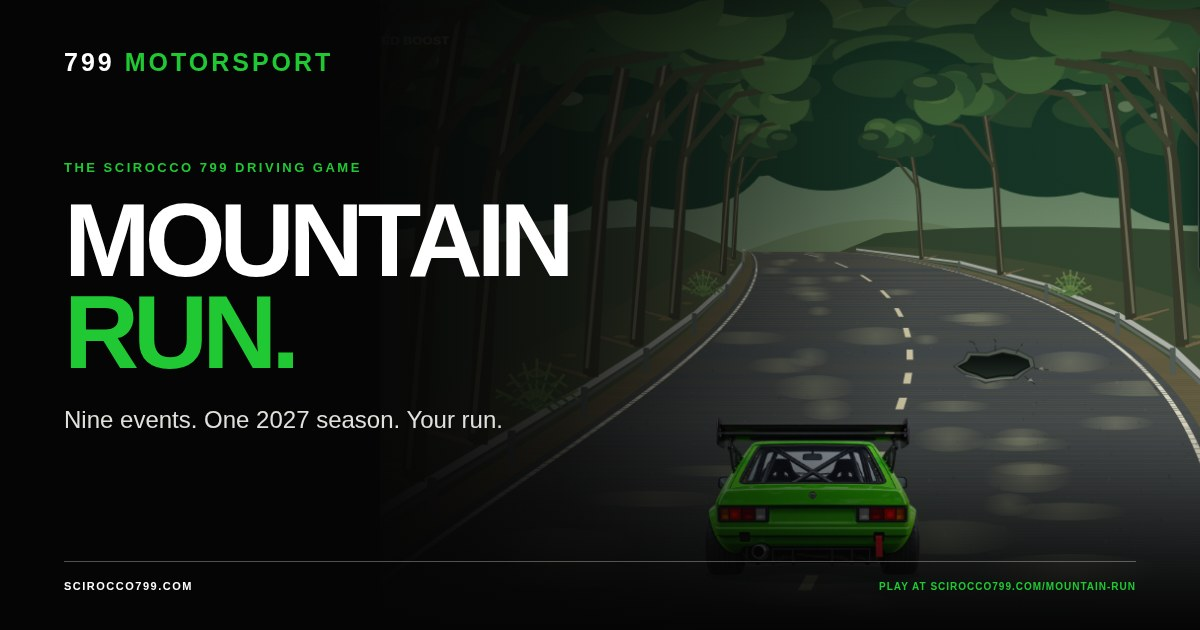
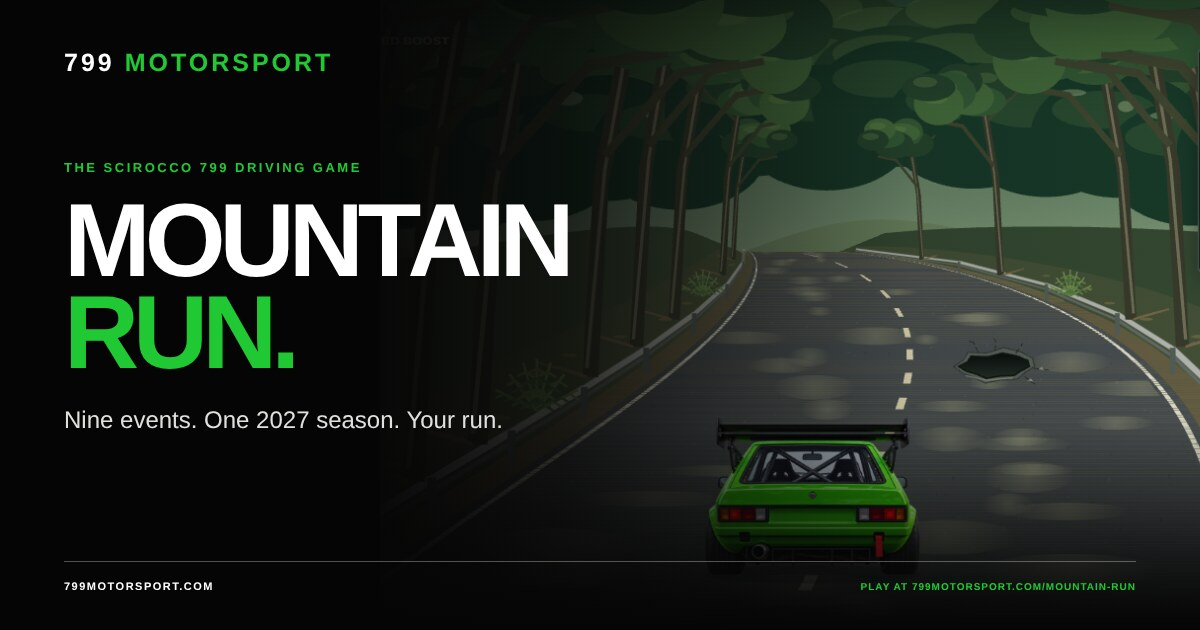
Share cards and QR code show 799motorsport.com
Link-preview cards: footer domain (and Mountain Run tag) now read
799MOTORSPORT.COM; nothing else on the cards changed. Table QR code now
encodes https://799motorsport.com/paddock?at=track#store (same size).
CLAUDE.md: hosting is Cloudflare Pages.

diff --git a/CLAUDE.md b/CLAUDE.md
@@ -1,6 +1,6 @@
 # 799motorsport.com
 
-Static site published by GitHub Pages from the root of `main`.
+Static site hosted on Cloudflare Pages (project `scirocco`), deployed automatically from the root of `main`. scirocco799.com redirects every page to 799motorsport.com (Cloudflare redirect rule).
 
 - Match the existing style exactly: copy the head, inline styles, desktop menu and mobile menu (`details.mobile-nav`) from an existing page. Never restyle or rewrite existing pages unless asked.
 - Every page must end with the shared footer: paste `scripts/site-footer.html` exactly as the page's footer and add `<link rel="stylesheet" href="/footer.css?v=2">` to its `<head>`. Never create a page without it, and never edit the footer on one page. Change `scripts/site-footer.html` and `footer.css`, then copy the footer to every page. Only the full-screen game pages (`mountain-run/index.html`, `the-run.html`) are exempt.
